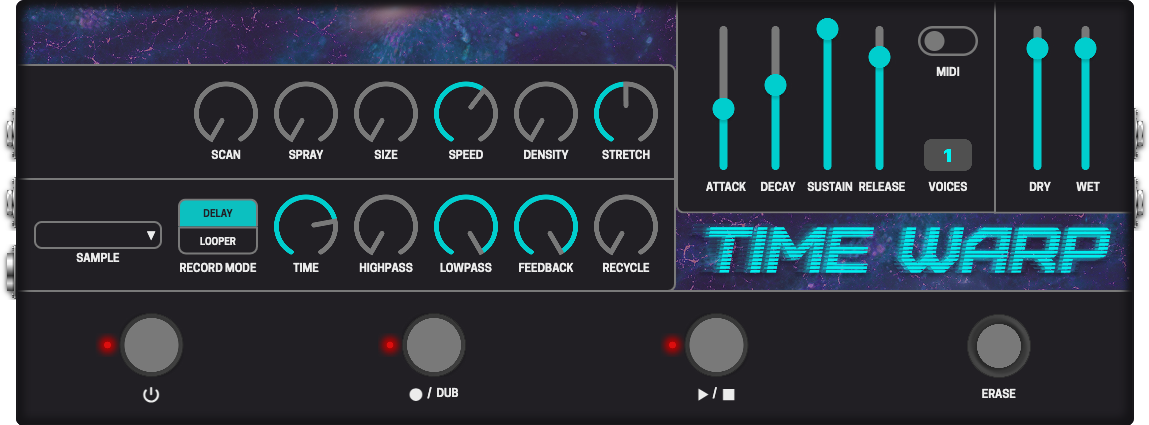
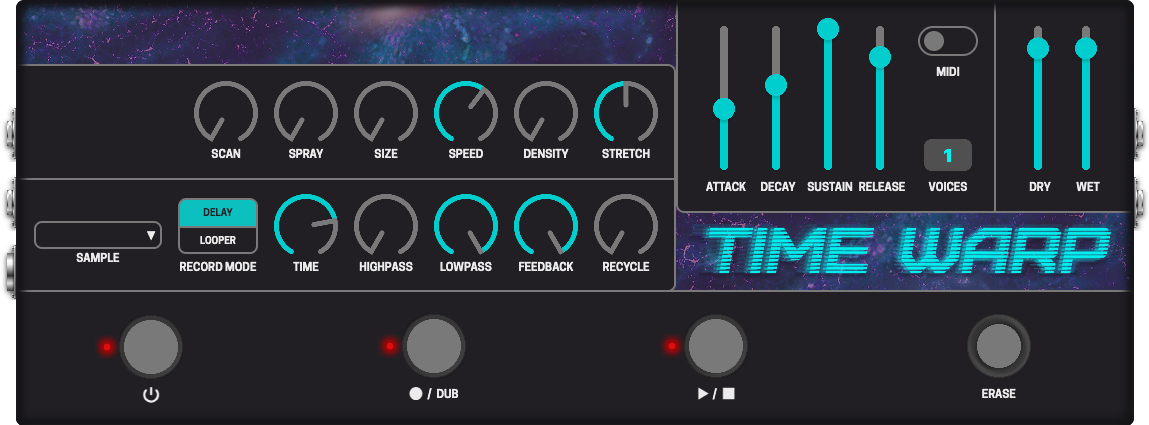
Align unicode symbols

diff --git a/lv2/dm-TimeWarp.lv2/modgui/stylesheet-dm-timewarp.css b/lv2/dm-TimeWarp.lv2/modgui/stylesheet-dm-timewarp.css
@@ -105,7 +105,7 @@
 .mod-pedal{{{cns}}} .unicode-symbol {
     font-size: 22px;
     vertical-align: text-top;
-    line-height: 18px;
+    line-height: 15px;
 }
 
 /* = CONTAINER
